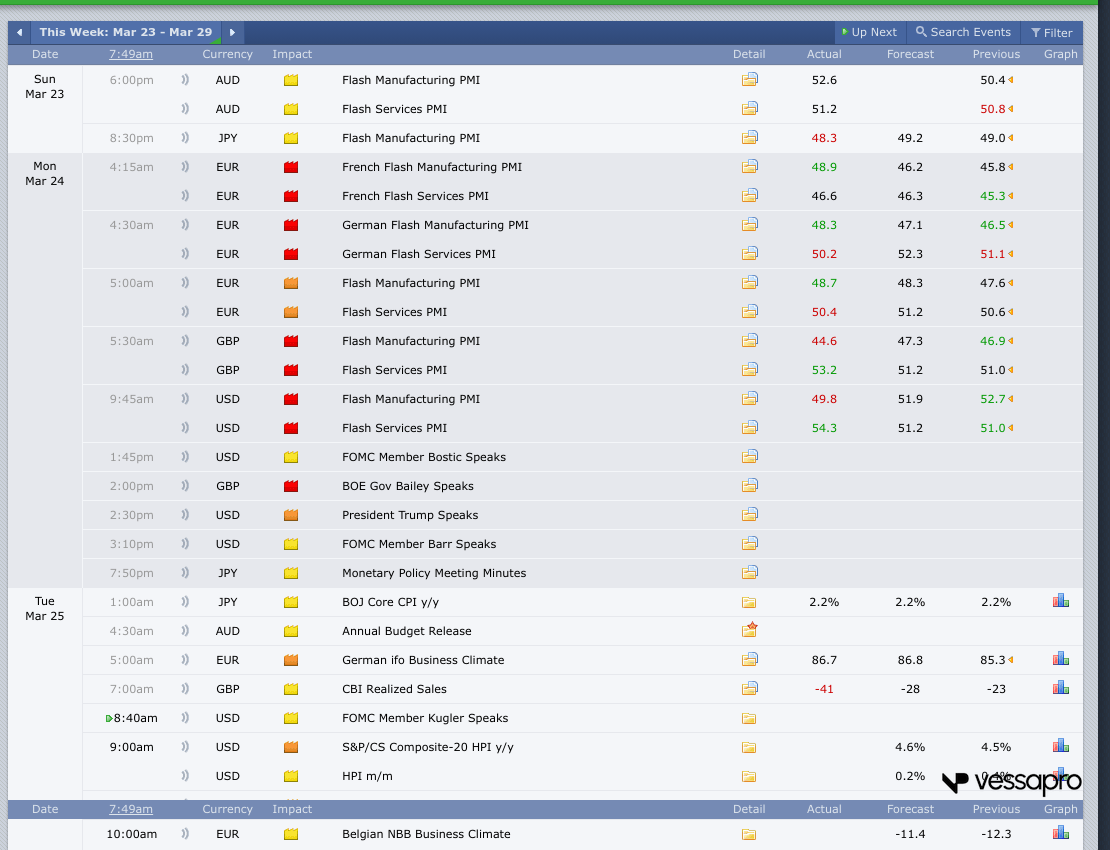
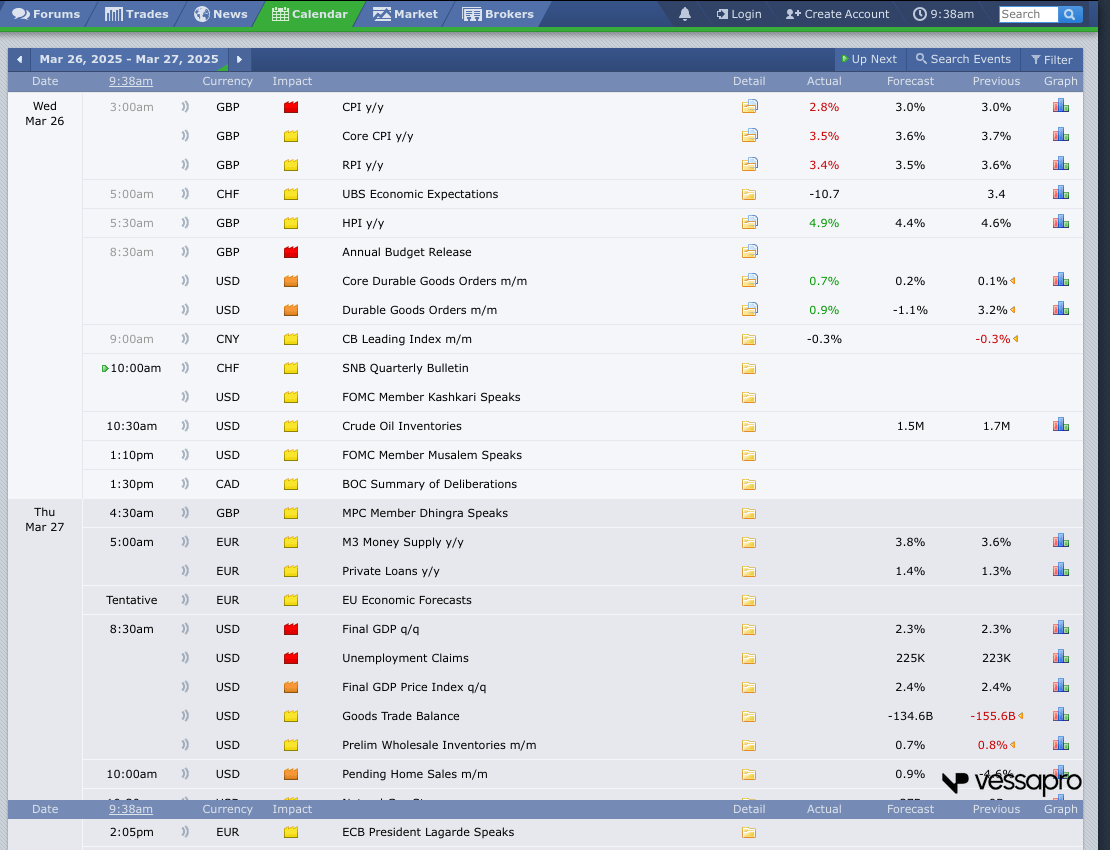
fix

diff --git a/screenshot.py b/screenshot.py
@@ -1,9 +1,16 @@
 import httpx
+from datetime import datetime, timedelta
 
 API_KEY = "k5vJut085d8MiAZM"
 
+def get_today_and_tomorrow_url():
+    today = datetime.utcnow().strftime('%b%d.%Y').lower()
+    tomorrow = (datetime.utcnow() + timedelta(days=1)).strftime('%b%d.%Y').lower()
+    return f"https://www.forexfactory.com/calendar?range={today}-{tomorrow}"
+
 def take_screenshot():
-    url_to_capture = "https://www.forexfactory.com/calendar"
+    # ✅ Clearly screenshots today and tomorrow ONLY.
+    url_to_capture = get_today_and_tomorrow_url()
     screenshot_api_url = f"https://api.urlbox.io/v1/{API_KEY}/png"
 
     params = {

diff --git a/scheduler.py b/scheduler.py
@@ -1,0 +1,17 @@
+from apscheduler.schedulers.background import BackgroundScheduler
+from generate_today_news import generate_today_news
+import time
+
+scheduler = BackgroundScheduler()
+
+# ✅ Clearly schedule to run EVERY 1 hour
+scheduler.add_job(generate_today_news, 'interval', hours=1)
+
+scheduler.start()
+print("🚀 VESSA NEWS SCHEDULER CLEARLY RUNNING (every 1 hour)! 🚀")
+
+try:
+    while True:
+        time.sleep(60)  # Keeps scheduler running clearly
+except KeyboardInterrupt:
+    scheduler.shutdown()
